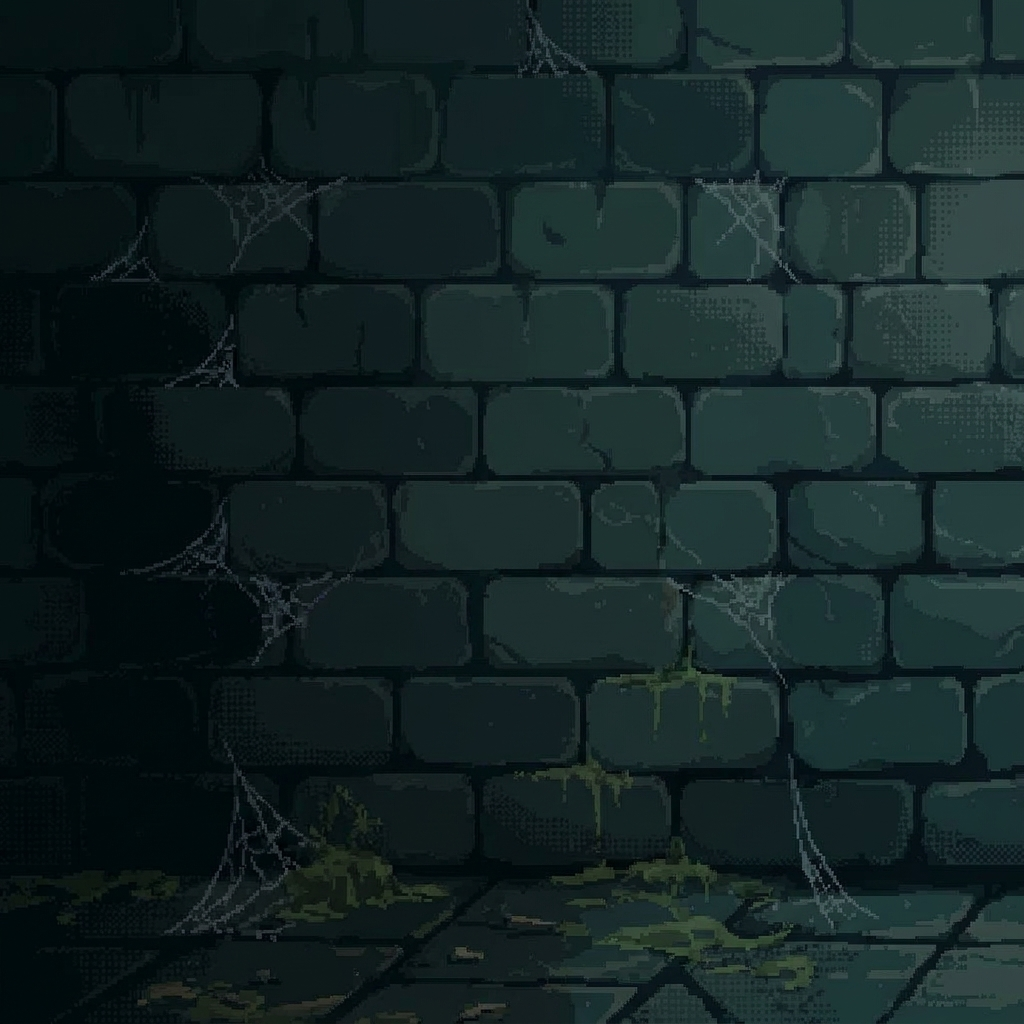
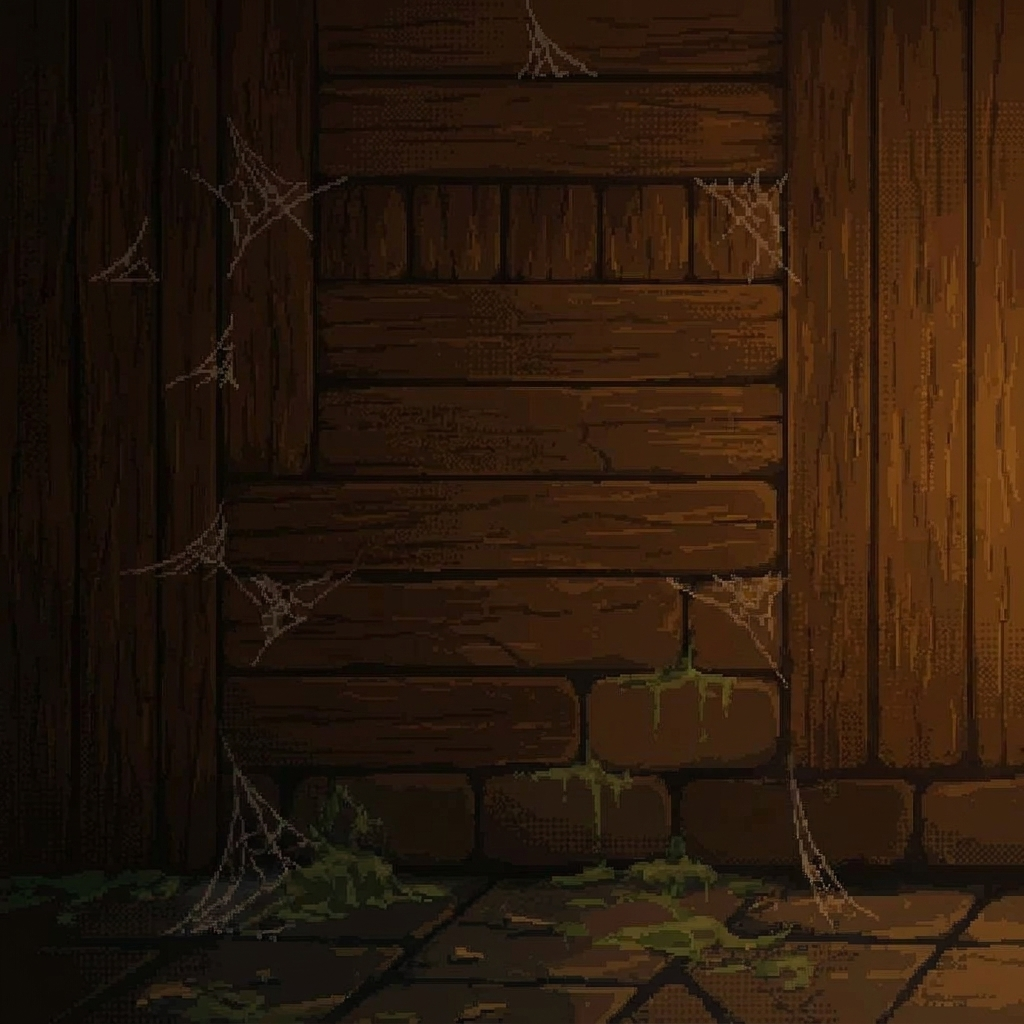
fundo da sala principal da fase 2

diff --git a/CSS.css/Fase2CSS.css b/CSS.css/Fase2CSS.css
@@ -1,6 +1,6 @@
 @import url('https://fonts.googleapis.com/css2?family=Creepster&display=swap'); /*importa a fonte creepster*/
 
-#Fundoestante{
+#FUNDOestante{
     position: absolute;
     z-index: 0; /*camada onde o elemento está posicionado */
     width: 1024px; /*largura de 1024*/
@@ -29,7 +29,34 @@ position: absolute;
     border: 5px solid #1b2922;/*configuerações da borda*/
     border-radius: 10px;/*arredondamento da borda*/
 }
-
+#sala1{
+    position: relative;
+    z-index: 0;
+    width: 1672px;
+    height: 941px;
+}
+#preto{
+    position: absolute;
+    z-index: 1;
+    top: 220px;
+    left: 670px;
+    width: 125px;
+    height: 390px;
+    border-radius: 100px 100px 60px 60px;
+}
+#preto:hover{
+    box-shadow: 0 0 15px rgba(121, 4, 4, 0.61)
+}
+#estanteDaSala{
+    position: absolute;
+    z-index: 1;
+    top: 190px;
+    right: -580px;
+    height:500px ;
+}
+#estanteDaSala:hover{
+     filter: drop-shadow( 0 0 10px rgba(255, 255, 255, 0.5));
+}
 
 #botao:hover {
     background-color: #3b3d3c;/*troca a cor de fundo ao passar o mouse por cima*/
@@ -37,7 +64,7 @@ position: absolute;
     
 }
 #h2{
-    color: #8d0f0f;/*cor do titulo*/
+    color: #ff3c00;/*cor do titulo*/
     text-align: center;/*alinhamento do titulo*/
     font-family: 'Creepster', cursive;/* chama a fonte creepster*/
     font-size: 80px;/*tamanho da fonte*/

diff --git a/HTML.html/2Fase.html b/HTML.html/2Fase.html
@@ -7,8 +7,14 @@
     <link rel="stylesheet" href="../CSS.css/Fase2CSS.css"><!-- linka a fase 2 ao seu CSS -->
 </head>
 <body>
+<div class="fundo1">
+<img id="sala1" src="../imagens/fundo1fase2.png">
+<img id="preto" src="../imagens/preto.jpg">
+<img id="estanteDaSala" src="../imagens/EstanteDaSala.png">
+</div>
 
-    <div class="container">
+
+    <div class="container" style="display: none;">
       <img id="FUNDOestante" src="../imagens/FUNDOestante.jpg">
     <div class="divtitulo">
       <h2 id="h2">Organize na ordem certa!</h2>
